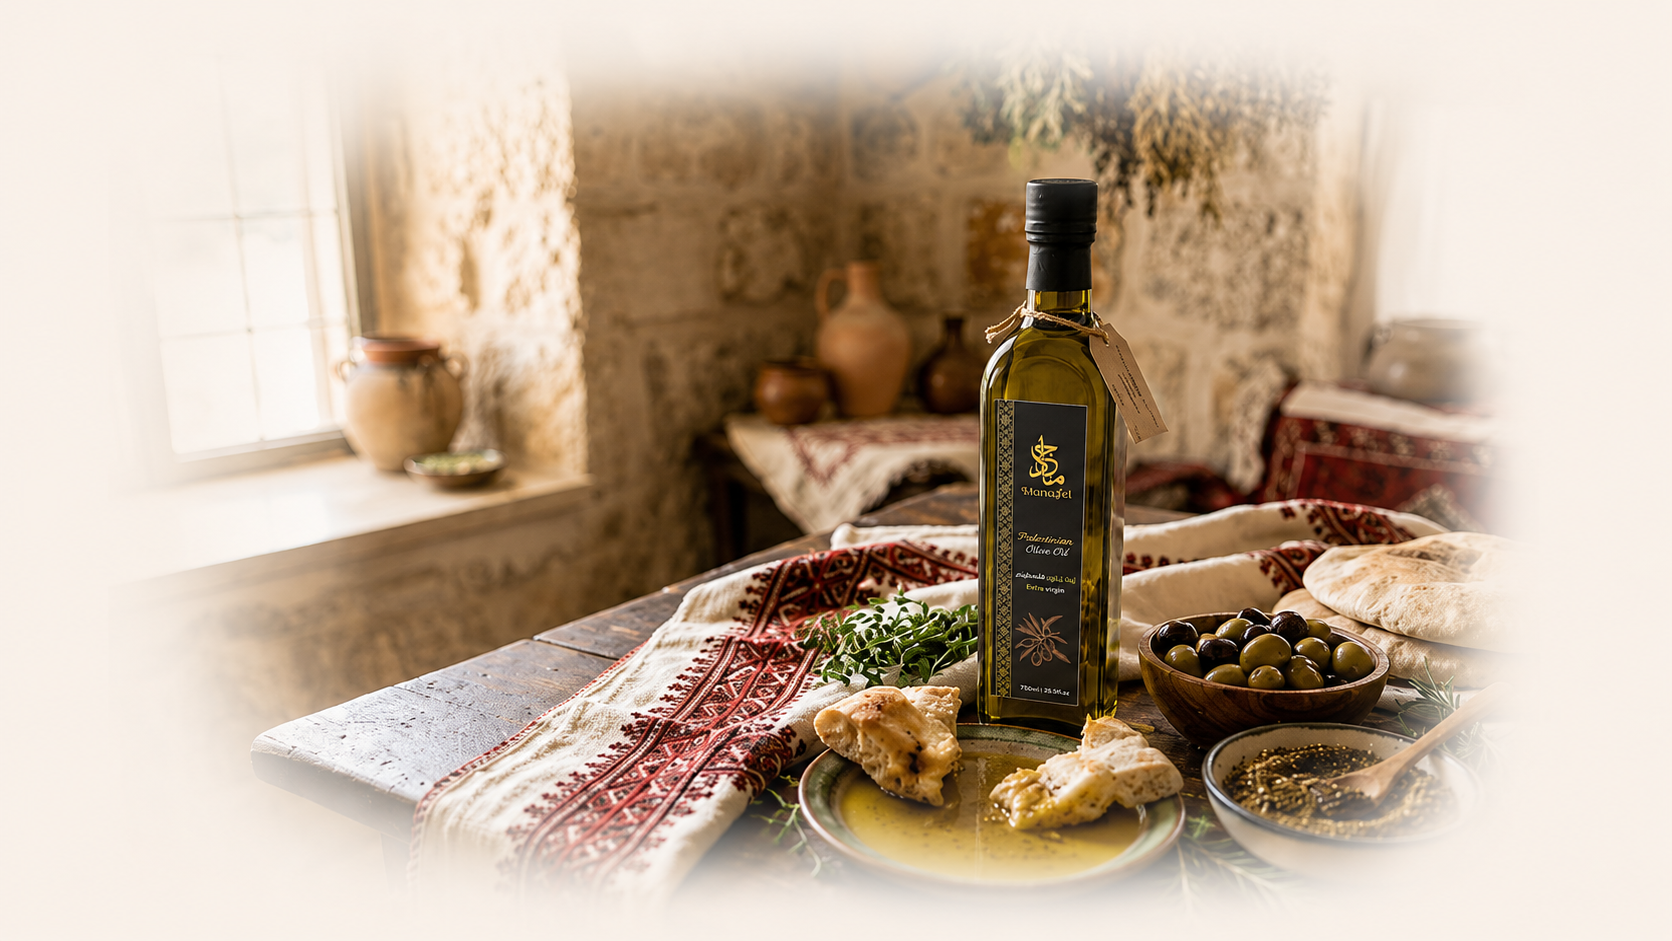
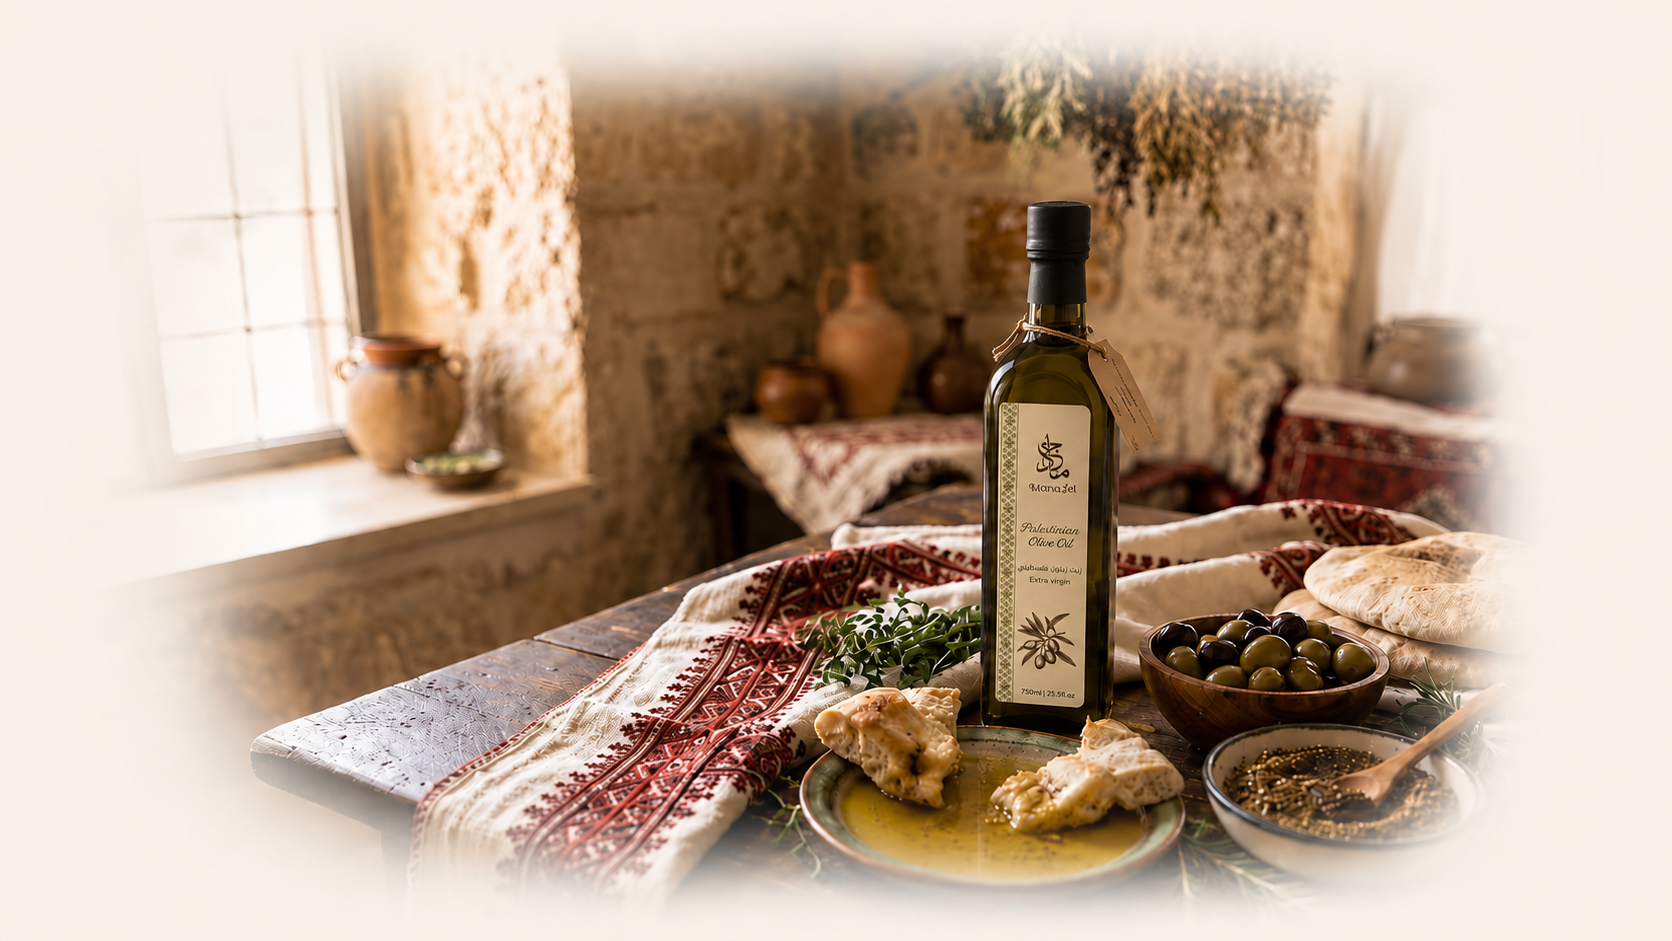
Some edits2

diff --git a/src/components/HomeContent.tsx b/src/components/HomeContent.tsx
@@ -179,15 +179,15 @@ export default function HomeContent() {
     {
       nameAr: "أحمد الكيلاني",
       roleAr: "زبون دائم",
-      reviewAr: "الزيت فعلاً مرتب وطعمه واضح من أول تجربة. التوصيل دايما سريع والتغليف مرتب.",
+      reviewAr: "الزيت فعلا مرتب وطعمه واضح من أول تجربة والتوصيل دايما سريع والتغليف مرتب.",
       nameEn: "Ahmad Al-Kilani",
       roleEn: "Loyal Customer",
       reviewEn: "The olive oil is truly authentic and you can taste the quality immediately. Fast delivery and great packaging.",
     },
     {
       nameAr: "لينا أبو خليل",
-      roleAr: "عميلة منذ 2022",
-      reviewAr: "من أجمل المنتجات الفلسطينية اللي جربتها. الجودة ثابتة بكل طلبية.",
+      roleAr: "زبونة منذ 2022",
+      reviewAr: "من أجمل المنتجات الفلسطينية اللي جربتها والجودة ثابتة بكل طلبية.",
       nameEn: "Lina Abu Khalil",
       roleEn: "Customer Since 2022",
       reviewEn: "One of the best Palestinian products I have tried. The quality is consistent in every order.",
@@ -203,15 +203,15 @@ export default function HomeContent() {
     {
       nameAr: "سمر النجار",
       roleAr: "مشتري متكرر",
-      reviewAr: "تعامل راقي وجودة ممتازة. صرت أوصي فيكم لكل العيلة والأصحاب.",
+      reviewAr: "تعامل راقي وجودة ممتازة صرت أوصي فيكم لكل العيلة والأصحاب.",
       nameEn: "Samar Al-Najjar",
       roleEn: "Repeat Buyer",
       reviewEn: "Great service and excellent quality. I keep recommending you to family and friends.",
     },
     {
       nameAr: "رامي الخطيب",
-      roleAr: "عميل جديد",
-      reviewAr: "أول طلب إلي وكان فوق التوقعات. الطعم أصيل والمنتج نظيف وواضح الاهتمام فيه.",
+      roleAr: "زبون جديد",
+      reviewAr: "أول طلب إلي وكان فوق التوقعات الطعم مرتب والمنتج نظيف وواضح الاهتمام فيه.",
       nameEn: "Rami Al-Khatib",
       roleEn: "New Customer",
       reviewEn: "My first order exceeded expectations. Authentic taste, clean product, and clear attention to detail.",
@@ -339,7 +339,7 @@ export default function HomeContent() {
             {language === "ar" ? "التراث الفلسطيني في كل منتج" : "Palestinian heritage in every product"}
           </p>
 
-          <Link
+          {/* <Link
             href="/store/shop"
             className={`mt-1 ${CTA_PILL} ${
               language === "ar" ? "tracking-normal text-xs md:text-sm" : "tracking-[0.18em]"
@@ -360,7 +360,7 @@ export default function HomeContent() {
             >
               <path d="M5 12h14M13 6l6 6-6 6" />
             </svg>
-          </Link>
+          </Link> */}
         </div>
 
       </section>

diff --git a/check-encryption.js b/check-encryption.js
@@ -1,0 +1,38 @@
+const crypto = require("crypto");
+require("dotenv").config();
+
+const encrypted =
+  "f7316bc9a5316bee6b80665eb9fa4e87:ddc8031c86cc9cb3971b02eeac954f0c";
+
+const keys = {
+  ENCRYPTION_KEY: process.env.ENCRYPTION_KEY,
+  NEXTAUTH_SECRET: process.env.NEXTAUTH_SECRET,
+  ENCRYPTION_KEY_PREVIOUS: process.env.ENCRYPTION_KEY_PREVIOUS,
+};
+
+for (const [name, secret] of Object.entries(keys)) {
+  if (!secret || secret.length < 32) {
+    console.log(name + ": INVALID_OR_MISSING");
+    continue;
+  }
+
+  try {
+    const [ivHex, ciphertextHex] = encrypted.split(":");
+
+    const key = crypto.scryptSync(secret, "salt", 32);
+
+    const decipher = crypto.createDecipheriv(
+      "aes-256-cbc",
+      key,
+      Buffer.from(ivHex, "hex")
+    );
+
+    const decrypted =
+      decipher.update(ciphertextHex, "hex", "utf8") +
+      decipher.final("utf8");
+
+    console.log(name + ": CAN_DECRYPT -> " + decrypted);
+  } catch {
+    console.log(name + ": CANNOT_DECRYPT");
+  }
+}

diff --git a/check-legacy.js b/check-legacy.js
@@ -1,0 +1,38 @@
+const crypto = require("crypto");
+require("dotenv").config();
+
+const encrypted = "f7316bc9a5316bee6b80665eb9fa4e87:ddc8031c86cc9cb3971b02eeac954f0c";
+
+const keys = {
+  ENCRYPTION_KEY: process.env.ENCRYPTION_KEY,
+  NEXTAUTH_SECRET: process.env.NEXTAUTH_SECRET,
+  ENCRYPTION_KEY_PREVIOUS: process.env.ENCRYPTION_KEY_PREVIOUS,
+};
+
+for (const [name, secret] of Object.entries(keys)) {
+  if (!secret || secret.length < 32) {
+    console.log(name + ": INVALID_OR_MISSING");
+    continue;
+  }
+
+  try {
+    const [ivHex, ciphertextHex] = encrypted.split(":");
+
+    const key = crypto.scryptSync(secret, "salt", 32);
+
+    const decipher = crypto.createDecipheriv(
+      "aes-256-cbc",
+      key,
+      Buffer.from(ivHex, "hex")
+    );
+
+    Buffer.concat([
+      decipher.update(Buffer.from(ciphertextHex, "hex")),
+      decipher.final(),
+    ]);
+
+    console.log(name + ": CAN_DECRYPT_LEGACY");
+  } catch {
+    console.log(name + ": CANNOT_DECRYPT_LEGACY");
+  }
+}

diff --git a/src/app/maintenance/page.tsx b/src/app/maintenance/page.tsx
@@ -13,16 +13,20 @@ export default function MaintenancePage() {
 
         <h2 className="text-2xl md:text-3xl font-bold text-[#3E2F1C]">
           المتجر تحت الصيانة
+          Store Under Maintenance
         </h2>
 
         <p className="mt-5 text-base md:text-lg leading-8 text-[#3E2F1C]/70">
           نعمل حاليًا على تطوير المتجر لتحسين تجربتكم.
+          We are currently working on developing the store to improve your experience.
           <br />
           سنعود إليكم قريبًا.
+          We will be back soon.
         </p>
 
         <div className="mt-8 inline-flex rounded-full border border-[#C9A66B]/50 bg-[#C9A66B]/10 px-5 py-2.5 text-sm font-semibold text-[#3E2F1C]">
           نعود قريبًا
+          Back Soon
         </div>
 
       </div>

diff --git a/src/app/globals.css b/src/app/globals.css
@@ -441,10 +441,10 @@ html {
      the Next image optimizer. Same picture, same dimensions: 155 KB as WebP and
      73 KB as AVIF. Declared as a background (not next/image) on purpose so
      background-attachment: fixed keeps working. */
-  background-image: url("/images/hero.webp");
+  background-image: url("/images/hero.png");
   background-image: image-set(
-    url("/images/hero.avif") type("image/avif"),
-    url("/images/hero.webp") type("image/webp")
+    url("/images/hero.png") type("image/png"),
+    url("/images/hero.png") type("image/png")
   );
   background-attachment: scroll;
   background-position: center;
@@ -614,6 +614,8 @@ html {
       #4a3208 90%,
       #63450f 100%
     );
+     padding-bottom: 0.2em;
+     margin-bottom: -0.1em;
 }
 
 .product-image {
